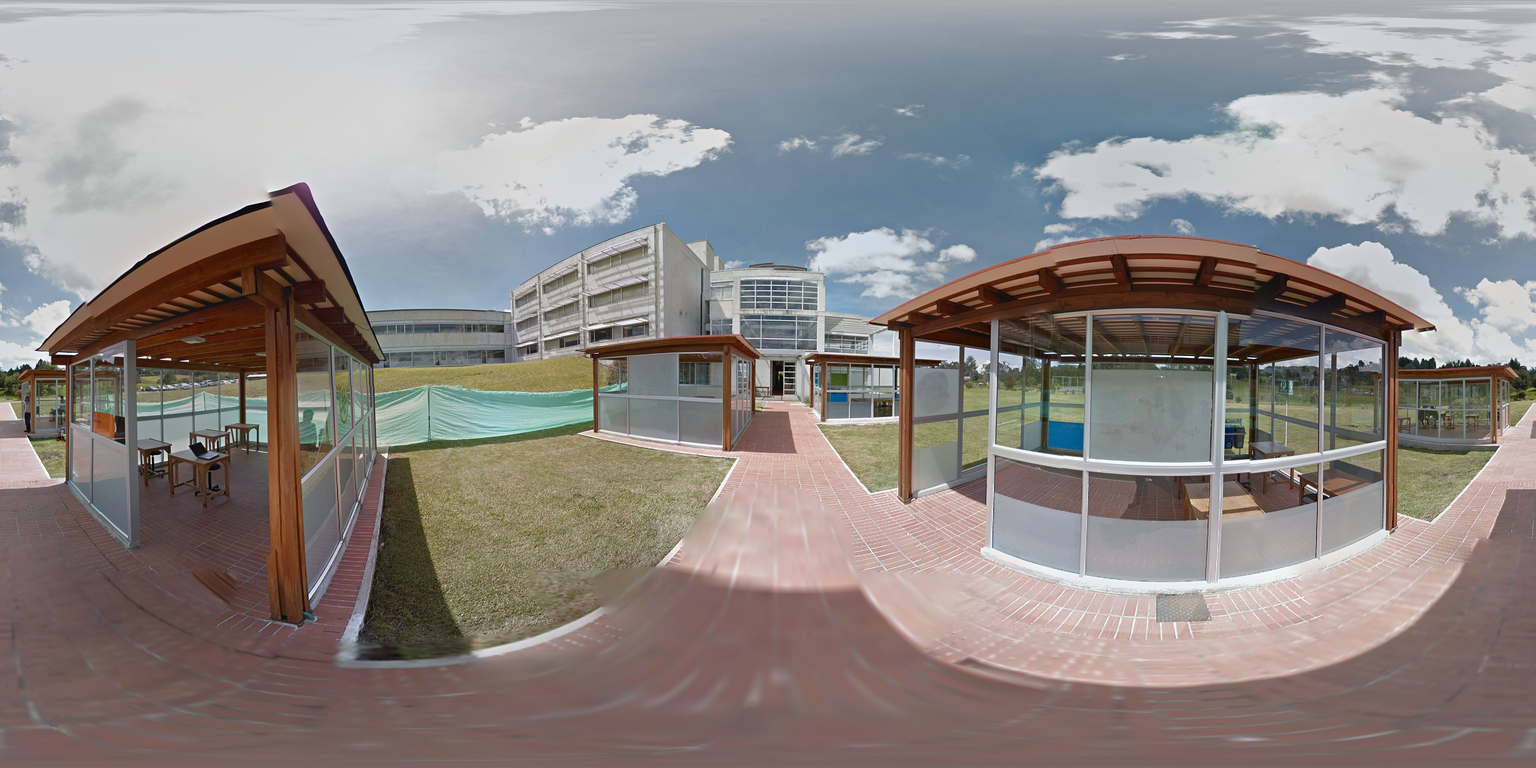
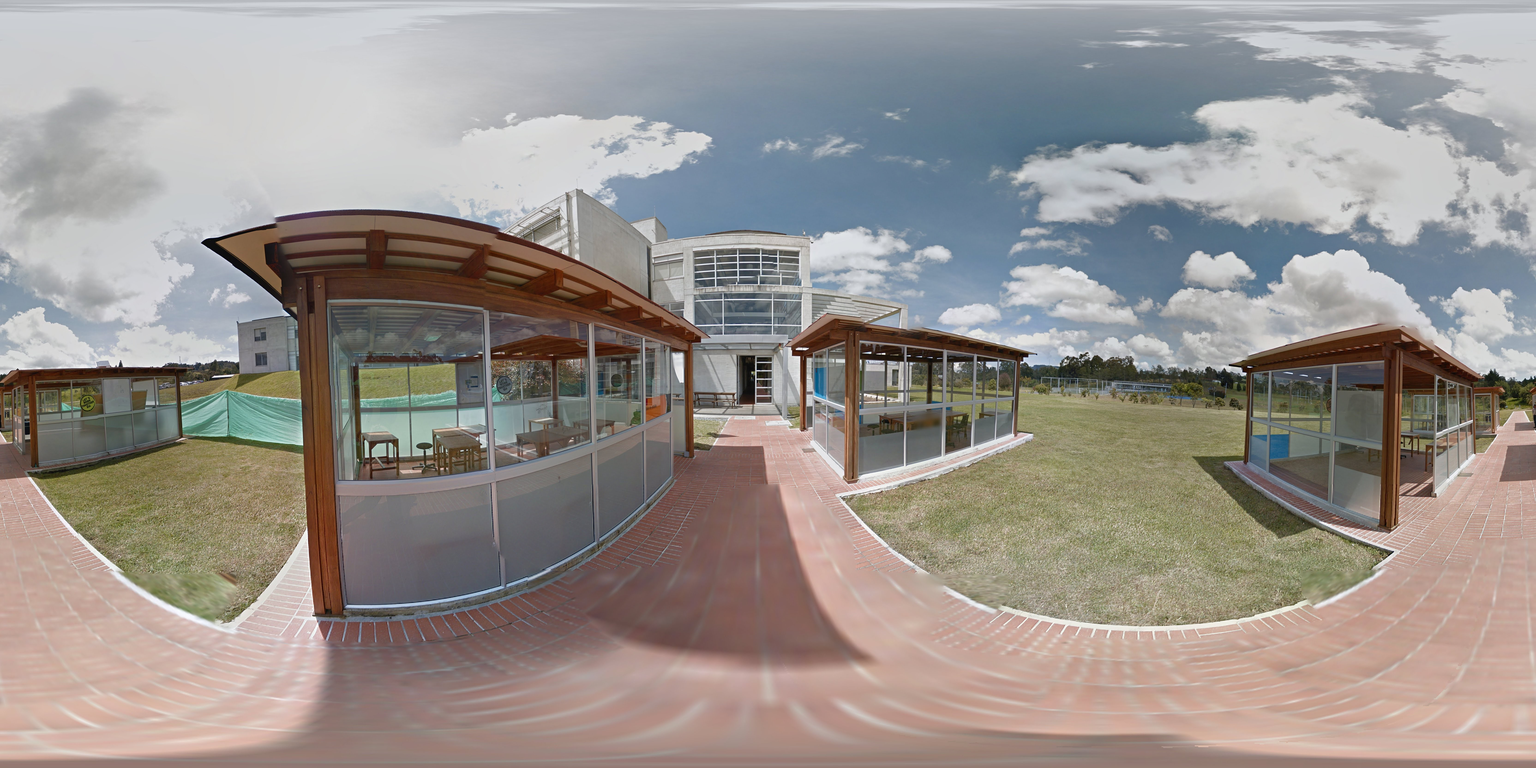
posición de la cámara + otra imagen de las casetas + posición de luz

diff --git a/app/js/settings.js b/app/js/settings.js
@@ -16,11 +16,11 @@ if (typeof window.orientation !== 'undefined'){
 
 //Light
 light = new THREE.DirectionalLight(0xffffff, 1.1);
-light.position.set(-95,115,-120);
+light.position.set(-71,168,80);
 scene.add(light);
 
 //Camera position  (x,z,y)
-camera.position.set(10,30,10);
+camera.position.set(10,30,40);
 camera.lookAt(new THREE.Vector3(100,0,100));
 //camera.rotation.z = 5 / 6 * Math.PI;
 
@@ -92,13 +92,5 @@ function raycasthover(e){
         unselect();
         select(getmeshC(objectid),playing);
     }
-  }
-}
-
-function nextplayer() {
-  if (playing==1) {
-    playing=2;
-  }else{
-    playing=1;
   }
 }

diff --git a/app/js/triqui.js b/app/js/triqui.js
@@ -3,6 +3,15 @@ var active1=0;
 var active2=0;
 var numfichas=9;
  
+
+function nextplayer() {
+    if (playing==1) {
+      playing=2;
+    }else{
+      playing=1;
+    }
+}
+
 function play(id) {
     //Verificar casilla seleccionada:
     //A,B,C <-id
